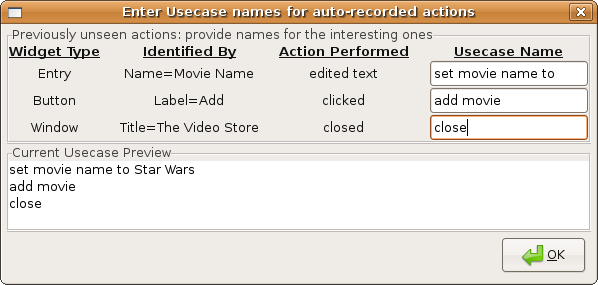
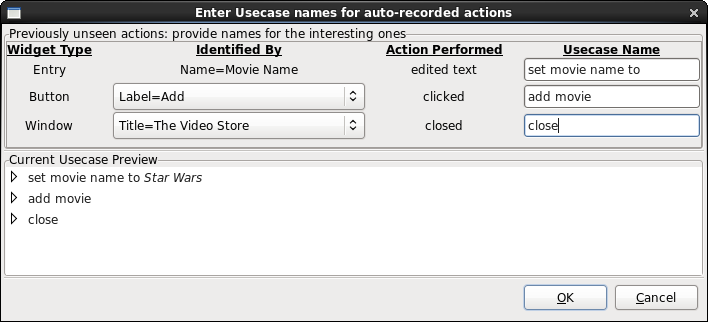
Updating StoryText documentation for version 3.10

Changed region(s): [[0.0, 0.0, 1.0, 1.0]]

diff --git a/include/ui_testing/storytext_supported_swt.php b/include/ui_testing/storytext_supported_swt.php
@@ -1,13 +1,13 @@
 <div class="Text_Header">SWT Widgets and event types supported for record/replay</div>
 <div class="Text_Normal">The following lists the SWT widget types and the associated event types on them which 
-StoryText 3.9 is currently capable of recording and replaying. Any type derived from the listed
+StoryText 3.10 is currently capable of recording and replaying. Any type derived from the listed
 types is also supported.
 </div>
 <div class="Text_Normal"><table border=1 cellpadding=1 cellspacing=1>
 <tr><td><a class="Text_Link" href=http://help.eclipse.org/helios/index.jsp?topic=/org.eclipse.platform.doc.isv/reference/api/org/eclipse/swt/custom/CCombo.html>org.eclipse.swt.custom.CCombo</a></td><td><div class="Table_Text_Normal">Activate , Modify , Selection</div></td></tr>
 <tr><td><a class="Text_Link" href=http://help.eclipse.org/helios/index.jsp?topic=/org.eclipse.platform.doc.isv/reference/api/org/eclipse/swt/custom/CTabFolder.html>org.eclipse.swt.custom.CTabFolder</a></td><td><div class="Table_Text_Normal">CloseTab , Selection</div></td></tr>
 <tr><td><a class="Text_Link" href=http://help.eclipse.org/helios/index.jsp?topic=/org.eclipse.platform.doc.isv/reference/api/org/eclipse/swt/widgets/Button.html>org.eclipse.swt.widgets.Button</a></td><td><div class="Table_Text_Normal">Selection</div></td></tr>
-<tr><td><a class="Text_Link" href=http://help.eclipse.org/helios/index.jsp?topic=/org.eclipse.platform.doc.isv/reference/api/org/eclipse/swt/widgets/Combo.html>org.eclipse.swt.widgets.Combo</a></td><td><div class="Table_Text_Normal">Activate , Modify</div></td></tr>
+<tr><td><a class="Text_Link" href=http://help.eclipse.org/helios/index.jsp?topic=/org.eclipse.platform.doc.isv/reference/api/org/eclipse/swt/widgets/Combo.html>org.eclipse.swt.widgets.Combo</a></td><td><div class="Table_Text_Normal">Activate , Modify , Selection</div></td></tr>
 <tr><td><a class="Text_Link" href=http://help.eclipse.org/helios/index.jsp?topic=/org.eclipse.platform.doc.isv/reference/api/org/eclipse/swt/widgets/DateTime.html>org.eclipse.swt.widgets.DateTime</a></td><td><div class="Table_Text_Normal">Selection</div></td></tr>
 <tr><td><a class="Text_Link" href=http://help.eclipse.org/helios/index.jsp?topic=/org.eclipse.platform.doc.isv/reference/api/org/eclipse/swt/widgets/ExpandBar.html>org.eclipse.swt.widgets.ExpandBar</a></td><td><div class="Table_Text_Normal">Collapse , Expand</div></td></tr>
 <tr><td><a class="Text_Link" href=http://help.eclipse.org/helios/index.jsp?topic=/org.eclipse.platform.doc.isv/reference/api/org/eclipse/swt/widgets/Link.html>org.eclipse.swt.widgets.Link</a></td><td><div class="Table_Text_Normal">Selection</div></td></tr>
@@ -18,13 +18,13 @@ types is also supported.
 <tr><td><a class="Text_Link" href=http://help.eclipse.org/helios/index.jsp?topic=/org.eclipse.platform.doc.isv/reference/api/org/eclipse/swt/widgets/TabFolder.html>org.eclipse.swt.widgets.TabFolder</a></td><td><div class="Table_Text_Normal">Selection</div></td></tr>
 <tr><td><a class="Text_Link" href=http://help.eclipse.org/helios/index.jsp?topic=/org.eclipse.platform.doc.isv/reference/api/org/eclipse/swt/widgets/Table.html>org.eclipse.swt.widgets.Table</a></td><td><div class="Table_Text_Normal">MouseDoubleClick , MouseDown , Selection</div></td></tr>
 <tr><td><a class="Text_Link" href=http://help.eclipse.org/helios/index.jsp?topic=/org.eclipse.platform.doc.isv/reference/api/org/eclipse/swt/widgets/TableColumn.html>org.eclipse.swt.widgets.TableColumn</a></td><td><div class="Table_Text_Normal">Selection</div></td></tr>
-<tr><td><a class="Text_Link" href=http://help.eclipse.org/helios/index.jsp?topic=/org.eclipse.platform.doc.isv/reference/api/org/eclipse/swt/widgets/Text.html>org.eclipse.swt.widgets.Text</a></td><td><div class="Table_Text_Normal">Activate , Modify</div></td></tr>
-<tr><td><a class="Text_Link" href=http://help.eclipse.org/helios/index.jsp?topic=/org.eclipse.platform.doc.isv/reference/api/org/eclipse/swt/widgets/ToolItem.html>org.eclipse.swt.widgets.ToolItem</a></td><td><div class="Table_Text_Normal">Selection</div></td></tr>
+<tr><td><a class="Text_Link" href=http://help.eclipse.org/helios/index.jsp?topic=/org.eclipse.platform.doc.isv/reference/api/org/eclipse/swt/widgets/Text.html>org.eclipse.swt.widgets.Text</a></td><td><div class="Table_Text_Normal">Activate , ContentAssist , Modify</div></td></tr>
+<tr><td><a class="Text_Link" href=http://help.eclipse.org/helios/index.jsp?topic=/org.eclipse.platform.doc.isv/reference/api/org/eclipse/swt/widgets/ToolItem.html>org.eclipse.swt.widgets.ToolItem</a></td><td><div class="Table_Text_Normal">DropDownSelection , Selection</div></td></tr>
 <tr><td><a class="Text_Link" href=http://help.eclipse.org/helios/index.jsp?topic=/org.eclipse.platform.doc.isv/reference/api/org/eclipse/swt/widgets/Tree.html>org.eclipse.swt.widgets.Tree</a></td><td><div class="Table_Text_Normal">Collapse , DefaultSelection , Expand , Selection</div></td></tr>
 </table></div>
 <div class="Text_Header">SWT Widgets supported for automatic logging</div>
 <div class="Text_Normal">
-The following lists the SWT widget types whose status and changes StoryText 3.9 is 
+The following lists the SWT widget types whose status and changes StoryText 3.10 is 
 currently capable of monitoring and logging. Any type derived from the listed types 
 is also supported but will only have features of the listed type described.
 </div>

diff --git a/include/ui_testing/storytext_supported_wx.php b/include/ui_testing/storytext_supported_wx.php
@@ -1,21 +1,27 @@
 <div class="Text_Header">wxPython Widgets and actions supported for record/replay</div>
 <div class="Text_Normal">The following lists the wxPython widget types and the associated actions on them which 
-StoryText 3.9 is currently capable of recording and replaying. Any type derived from the listed
+StoryText 3.10 is currently capable of recording and replaying. Any type derived from the listed
 types is also supported.
 </div>
 <div class="Text_Normal"><table border=1 cellpadding=1 cellspacing=1>
 <tr><td><a class="Text_Link" href=http://www.wxpython.org/docs/api/wx.Button-class.html>wx.Button</a></td><td><div class="Table_Text_Normal">Press</div></td></tr>
 <tr><td><a class="Text_Link" href=http://www.wxpython.org/docs/api/wx.CheckBox-class.html>wx.CheckBox</a></td><td><div class="Table_Text_Normal">Check , CheckThirdState , Uncheck</div></td></tr>
 <tr><td><a class="Text_Link" href=http://www.wxpython.org/docs/api/wx.Choice-class.html>wx.Choice</a></td><td><div class="Table_Text_Normal">Choose</div></td></tr>
+<tr><td><a class="Text_Link" href=http://www.wxpython.org/docs/api/wx.DirDialog-class.html>wx.DirDialog</a></td><td><div class="Table_Text_Normal">SelectDir</div></td></tr>
+<tr><td><a class="Text_Link" href=http://www.wxpython.org/docs/api/wx.DirSelectorWidget-class.html>wx.DirSelectorWidget</a></td><td><div class="Table_Text_Normal">DirSelectorReply</div></td></tr>
 <tr><td><a class="Text_Link" href=http://www.wxpython.org/docs/api/wx.FileDialog-class.html>wx.FileDialog</a></td><td><div class="Table_Text_Normal">SelectFile</div></td></tr>
+<tr><td><a class="Text_Link" href=http://www.wxpython.org/docs/api/wx.FileSelectorWidget-class.html>wx.FileSelectorWidget</a></td><td><div class="Table_Text_Normal">FileSelectorReply</div></td></tr>
 <tr><td><a class="Text_Link" href=http://www.wxpython.org/docs/api/wx.Frame-class.html>wx.Frame</a></td><td><div class="Table_Text_Normal">Close , Menu</div></td></tr>
+<tr><td><a class="Text_Link" href=http://www.wxpython.org/docs/api/wx.GetColourFromUserWidget-class.html>wx.GetColourFromUserWidget</a></td><td><div class="Table_Text_Normal">GetColourFromUserReply</div></td></tr>
+<tr><td><a class="Text_Link" href=http://www.wxpython.org/docs/api/wx.GetFontFromUserWidget-class.html>wx.GetFontFromUserWidget</a></td><td><div class="Table_Text_Normal">GetFontFromUserReply</div></td></tr>
 <tr><td><a class="Text_Link" href=http://www.wxpython.org/docs/api/wx.ListCtrl-class.html>wx.ListCtrl</a></td><td><div class="Table_Text_Normal">ListCtrlSelect</div></td></tr>
+<tr><td><a class="Text_Link" href=http://www.wxpython.org/docs/api/wx.MessageBoxWidget-class.html>wx.MessageBoxWidget</a></td><td><div class="Table_Text_Normal">MessageBoxReply</div></td></tr>
 <tr><td><a class="Text_Link" href=http://www.wxpython.org/docs/api/wx.TextCtrl-class.html>wx.TextCtrl</a></td><td><div class="Table_Text_Normal">TextEnter</div></td></tr>
 <tr><td><a class="Text_Link" href=http://www.wxpython.org/docs/api/wx.Window-class.html>wx.Window</a></td><td><div class="Table_Text_Normal">ContextMenu</div></td></tr>
 </table></div>
 <div class="Text_Header">wxPython Widgets supported for automatic logging</div>
 <div class="Text_Normal">
-The following lists the wxPython widget types whose status and changes StoryText 3.9 is 
+The following lists the wxPython widget types whose status and changes StoryText 3.10 is 
 currently capable of monitoring and logging. Any type derived from the listed types 
 is also supported but will only have features of the listed type described.
 </div>

diff --git a/include/ui_testing/storytext_and_swt.php b/include/ui_testing/storytext_and_swt.php
@@ -88,8 +88,10 @@ StoryText has various ways to identify widgets in an SWT app. These are, in orde
 <LI>The text on the widget, if it isn't editable
 <LI>The text on any Label immediately preceding the widget in its parent container
 <LI>The tooltip on the widget
+<LI>The title of the dialog where the widget appears
+<LI>The ID of the JFace Action associated with the widget, if any (the result of widget.getData().getAction().getId())
 <LI>The ID of the View in which the widget appears (RCP only)
-<LI>The type of the widget
+<LI>The type of the widget (class name)
 </UL>
 The hope is to find a unique way of identifying the widget based on this information, so that it can be referenced in the <A class="Text_Link" HREF="index.php?page=ui_testing&n=storytext_intro#ui_map_file">UI map file</A>. There will however exist some cases where this isn't sufficient to identify a widget, for example if the widget is only identified by type, or the text isn't unique, or it changes depending on e.g. today's date. In these cases the widget needs to be named explicitly in the code, and it's fair to say that most non-trivial applications will need to name at least some widgets before StoryText will work smoothely.</div>
 <div class="Text_Normal">
@@ -115,10 +117,19 @@ widget.notifyListeners(1234, event);
 The name provided in "event.text" will then be placed after "wait for " in the usecase files when the event is recorded,
 so choose something that makes sense in that context, e.g. "data to be loaded". </div>
 <div class="Text_Normal">
-If several such events follow each other, they will overwrite each other, i.e. only the last one will be recorded.
+If several such events follow each other, they will overwrite each other, i.e. only the last one will be recorded. To avoid this, you can
+set a category for the event, by inserting a line like
+<?php codeSampleBegin() ?>
+event.data = "background category";
+<?php codeSampleEnd() ?>
+in which case only events in the same category will overwrite each other, while those in different categories will be treated as 
+independent and StoryText will wait for all, in any order, before proceeding. Application event categories are discussed more 
+<A class="Text_Link" href="index.php?page=ui_testing&n=appevents">on the general page for application events</A>.
 </div>
 <div class="Text_Header">Jobs in Eclipse RCP</div>
 <div class="Text_Normal">
 Eclipse has its own "job" mechanism defined in the package "org.eclipse.core.runtime.jobs" and many background tasks use that mechanism.
-StoryText will in this case add its own job listeners and will generate application events automatically when a user-defined Job completes, so no instrumentation of the type described above is needed in this case.
+StoryText will in this case add its own job listeners and will generate application events automatically when a user-defined Job completes, so no instrumentation of the type described above is needed in this case.</div>
+<div class="Text_Normal">
+By default StoryText will keep track of all jobs where isSystem() returns False. You can also set the environment variable "STORYTEXT_SYSTEM_JOB_NAMES", to tell it which system jobs should be monitored also.
 </div>

diff --git a/include/ui_testing/storytext_cmdline.php b/include/ui_testing/storytext_cmdline.php
@@ -62,13 +62,18 @@ Options:
   -s, --supported       list which PyGTK widgets and signals are currently
                         supported 'out-of-the-box'
   -S, --screenshot      Take screenshots of the GUI after each action. Only
-                        works in SWT/Eclipse currently
+                        works in SWT/Eclipse currently. Also enabled via the
+                        environment variable USECASE_REPLAY_SCREENSHOTS.
   -t SECONDS, --timeout=SECONDS
                         amount of time to wait for application events before
                         giving up and trying to proceed.
   -T TESTSCRIPTPLUGINID, --testscriptpluginid=TESTSCRIPTPLUGINID
                         determines the testscript plugin id for an eclipse RCP
                         application, i.e. 'org.eclipse.swtbot.gef.testscript'
+  -w MIN_FIELD_WIDTHS, --min-field-widths=MIN_FIELD_WIDTHS
+                        Set a minimum width for certain fields. Useful for
+                        when table columns have indeterministic width, due to
+                        e.g. date formats
   -x, --disable_usecase_names
                         Disable the entering of usecase names when
                         unrecognised actions are recorded. Recommended only
@@ -77,7 +82,18 @@ Options:
                         read and hard to maintain.
   -X EXCLUDE_DESCRIBE, --exclude-describe=EXCLUDE_DESCRIBE
                         Exclude the listed widget class names from being
-                        described in the describer
+                        described in the describer.  Refer to online
+                        documentation at
+                        http://www.texttest.org/index.php?page=ui_testing,
+                        under 'Supported Widgets' for your toolkit.  Use any
+                        value from the lower list, i.e. the one for automatic
+                        logging, without the module names. An example would be
+                        '-X Menu,ToolBar,Browser' for SWT/Eclipse RCP, or '-X
+                        MenuBar,Toolbar,TreeView' for PyGTK. Also allow syntax
+                        like '-X Menu!File', to exclude all menus except those
+                        called 'File'.  On Windows, '-X MenuNOTFile' is a
+                        temporary alternative to this, working around a Jython
+                        bug.
   --insert-shortcuts    Re-record the replay script to the record script
                         without running anything, inserting shortcuts as
                         required

diff --git a/include/ui_testing/storytext_supported_gtk.php b/include/ui_testing/storytext_supported_gtk.php
@@ -1,6 +1,6 @@
 <div class="Text_Header">PyGTK Widgets and signals supported for record/replay</div>
 <div class="Text_Normal">The following lists the PyGTK widget types and the associated signals on them which 
-StoryText 3.9 is currently capable of recording and replaying. Any type derived from the listed
+StoryText 3.10 is currently capable of recording and replaying. Any type derived from the listed
 types is also supported. Note also that a handful of widgets in the "hildon" extension for Nokia's Maemo smartphone platform will also work without the need to do anything differently, although this support is only at the proof of concept stage currently.
 </div>
 <div class="Text_Normal"><table border=1 cellpadding=1 cellspacing=1>
@@ -25,7 +25,7 @@ types is also supported. Note also that a handful of widgets in the "hildon" ext
 </table></div>
 <div class="Text_Header">PyGTK Widgets supported for automatic logging</div>
 <div class="Text_Normal">
-The following lists the PyGTK widget types whose status and changes StoryText 3.9 is 
+The following lists the PyGTK widget types whose status and changes StoryText 3.10 is 
 currently capable of monitoring and logging. Any type derived from the listed types 
 is also supported but will only have features of the listed type described.
 </div>

diff --git a/include/ui_testing/storytext_intro.php b/include/ui_testing/storytext_intro.php
@@ -25,9 +25,17 @@ up and requesting that you enter "usecase names" for the things
 you just did. It gives you the type of the widget, how it identifies it
 and a description of the action that was performed on it, and 
 you can hopefully figure out which row corresponds to which action you did
-and name the actions in a suitably high-level language. The current usecase 
-that will be recorded is previewed in the window at the
-bottom as you type to assist you in this process. </div>
+and name the actions in a suitably high-level language. 
+The current usecase that will be recorded is previewed in the window at the
+bottom as you type to assist you in this process. 
+</div>
+<div class="Text_Normal">
+Since StoryText 3.10 you will be presented with a choice of properties of the widget
+to use for identification, in a drop-down box as shown below. The default will generally
+be the most specific option which does not include specifying the widget type. Most of the
+time leaving the default in is fine, but sometimes you might want to use a different property
+or combination of them for some reason. 
+</div>
 <div class="Text_Normal">
 Any actions that we don't name will be treated as uninteresting and will
 not be recorded. Here is the dialog as it might be filled out just before 

diff --git a/include/ui_testing/storytext_supported_tkinter.php b/include/ui_testing/storytext_supported_tkinter.php
@@ -1,6 +1,6 @@
 <div class="Text_Header">Tkinter Widgets and actions supported for record/replay</div>
 <div class="Text_Normal">The following lists the Tkinter widget types and the associated actions on them which 
-StoryText 3.9 is currently capable of recording and replaying. Any type derived from the listed
+StoryText 3.10 is currently capable of recording and replaying. Any type derived from the listed
 types is also supported.
 </div>
 <div class="Text_Normal"><table border=1 cellpadding=1 cellspacing=1>
@@ -16,7 +16,7 @@ types is also supported.
 </table></div>
 <div class="Text_Header">Tkinter Widgets supported for automatic logging</div>
 <div class="Text_Normal">
-The following lists the Tkinter widget types whose status and changes StoryText 3.9 is 
+The following lists the Tkinter widget types whose status and changes StoryText 3.10 is 
 currently capable of monitoring and logging. Any type derived from the listed types 
 is also supported but will only have features of the listed type described.
 </div>

diff --git a/include/ui_testing/storytext_supported_swing.php b/include/ui_testing/storytext_supported_swing.php
@@ -1,6 +1,6 @@
 <div class="Text_Header">Swing Widgets and event types supported for record/replay</div>
 <div class="Text_Normal">The following lists the Swing widget types and the associated event types on them which 
-StoryText 3.9 is currently capable of recording and replaying. Any type derived from the listed
+StoryText 3.10 is currently capable of recording and replaying. Any type derived from the listed
 types is also supported.
 </div>
 <div class="Text_Normal"><table border=1 cellpadding=1 cellspacing=1>
@@ -21,7 +21,7 @@ types is also supported.
 </table></div>
 <div class="Text_Header">Swing Widgets supported for automatic logging</div>
 <div class="Text_Normal">
-The following lists the Swing widget types whose status and changes StoryText 3.9 is 
+The following lists the Swing widget types whose status and changes StoryText 3.10 is 
 currently capable of monitoring and logging. Any type derived from the listed types 
 is also supported but will only have features of the listed type described.
 </div>

diff --git a/include/ui_testing/storytext_shortcuts.php b/include/ui_testing/storytext_shortcuts.php
@@ -56,6 +56,8 @@ don't need to do anything to change the usecases themselves. This is because Tex
 </div>
 <div class="Text_Normal">
 Our usecase is then more readable and concise, and we only have to change in one place if we should change what steps are involved in logging in.
+We can continue to apply this process recursively, so that shortcuts can contain other shortcuts. This is properly supported from 
+StoryText 3.10 onwards.
 </div>
 <div class="Text_Header">Behind the scenes</div>
 <div class="Text_Normal">
